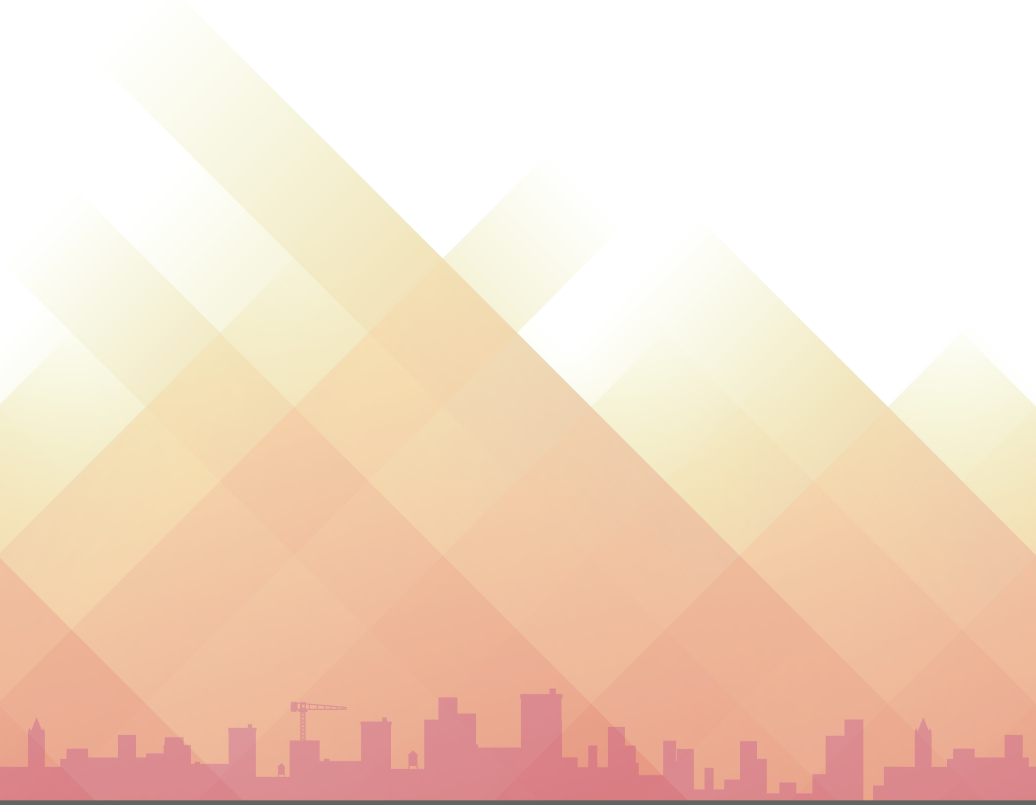
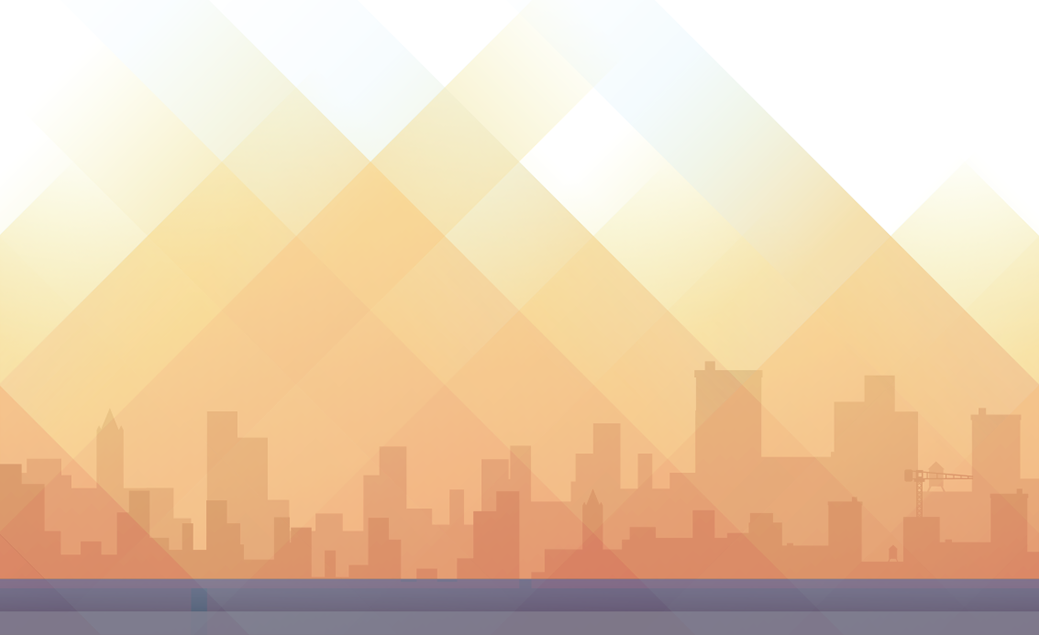
update city headers and modal

diff --git a/src/scss/partials/_city-header.scss b/src/scss/partials/_city-header.scss
@@ -3,14 +3,9 @@
 
   &:before {
     height: 370px;
-    background-image: url('../img/manchester-townhall.png');
+    background-image: url('../img/manc-buildings.png');
     background-position: 33% bottom;
     background-repeat: no-repeat;
-    margin-left: -335px;
-
-    @include mq($from: m) {
-      left: 22%;
-    }
   }
 }
 
@@ -19,13 +14,11 @@
 
   &:before {
     height: 324px;
-    background-image: url('../img/leeds-townhall.png');
+    background-image: url('../img/leeds-buildings.png');
     background-repeat: no-repeat;
-    margin-left: -330px;
     background-position: 33% bottom;
 
     @include mq($from: m) {
-      left: 22%;
     }
   }
 }
@@ -45,10 +38,10 @@
     position: absolute;
     display: inline-block;
     content: '';
-    width: 370px;
-    background-size: 370px;
-    left: 50%;
-    bottom: 3px;
+    width: 600px;
+    background-size: 600px;
+    left: 0px;
+    bottom: 18px;
   }
 
   & .container {

diff --git a/src/scss/partials/_modal.scss b/src/scss/partials/_modal.scss
@@ -53,9 +53,9 @@
 }
 
 .location-select-icon--manchester {
-  padding-top: 28px;
+  padding-top: 73px;
 }
 
 .location-select-icon--leeds {
-  padding-top: 19px;
+  padding-top: 64px;
 }

diff --git a/src/js/env.js b/src/js/env.js
@@ -1,2 +1,2 @@
-module.exports = 1
+module.exports = 3
 
